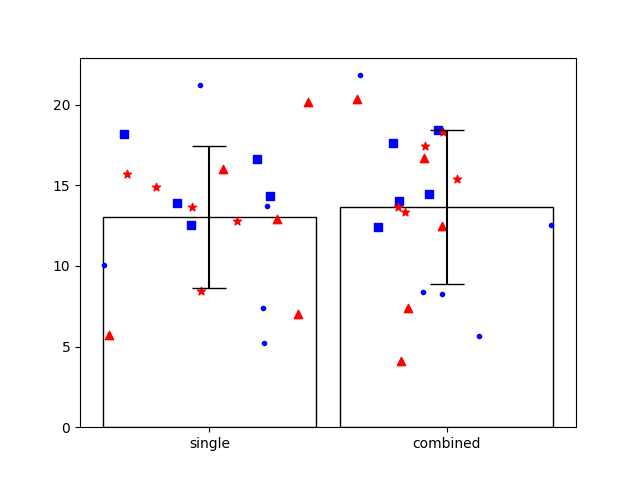
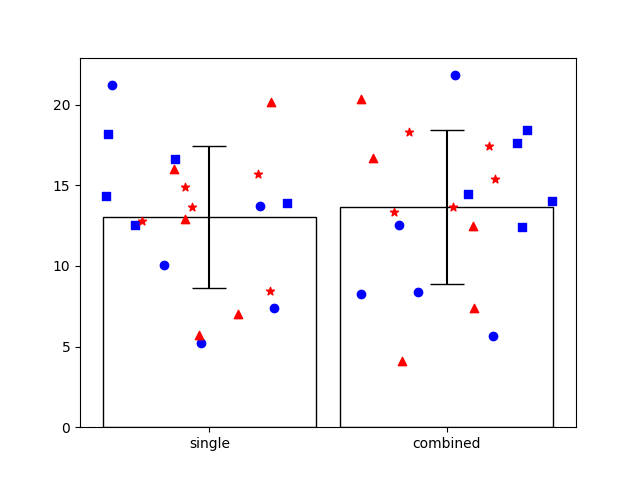
DLC update

diff --git a/DeepLabCut/DLC_jump_analysis/all_trackers/jump_analysis.py b/DeepLabCut/DLC_jump_analysis/all_trackers/jump_analysis.py
@@ -34,11 +34,17 @@ def main(full_path, relative_path, fname1, fname2):
         dataframes_list.append(nose_values1)
 
     combined_values = dataframes_list[0]
+    print("combined_values:\n", combined_values)
     Ms21_values = dataframes_list[1]
+    print("Ms21_values:\n", Ms21_values)
     Ms22_values = dataframes_list[2]
+    print("Ms22_values:\n", Ms22_values)
     RC1_values = dataframes_list[3]
+    print("RC1_values:\n", RC1_values)
     Rear5_values = dataframes_list[4]
+    print("Rear5_values:\n", Rear5_values)
     single_values = dataframes_list[5]
+    print("single_values:\n", single_values)
 
     #Order of single trackers: Ms21, Ms22, RC1, Rear5
     #Naming convention: Ms21 = Rat1, Ms22 = Rat2, RC1 = Rat3, Rear5 = Rat4
@@ -85,14 +91,14 @@ def main(full_path, relative_path, fname1, fname2):
     # exact_values=[np.mean(yi) for yi in y3]
     # print(exact_values)
 
-    test_a = y1[0] 
-    test_var = np.random.random(test_a[0:5].size)
-    print(test_var)
+    # test_a = y1[0] 
+    # test_var = np.random.random(test_a[0:5].size)
+    # print(test_var)
 
     for i in range(len(x1)):
         #distribute scatter randomly across whole width of bar
         a = y1[i]
-        plt.scatter(x1[i] + np.random.random(a[0:5].size) * w - w / 2, a[0:5], color=colors2[1], marker='.') #circle marker = Ms21
+        plt.scatter(x1[i] + np.random.random(a[0:5].size) * w - w / 2, a[0:5], color=colors2[1], marker='o') #circle marker = Ms21
         plt.scatter(x1[i] + np.random.random(a[5:10].size) * w - w / 2, a[5:10], color=colors2[1], marker = "s") #square marker = Ms22
         plt.scatter(x1[i] + np.random.random(a[10:15].size) * w - w / 2, a[10:15], color=colors2[0], marker = "*") #star marker = RC1
         plt.scatter(x1[i] + np.random.random(a[15:20].size) * w - w / 2, a[15:20], color=colors2[0], marker = "^") #triangle marker = Rear5
@@ -131,20 +137,38 @@ def main(full_path, relative_path, fname1, fname2):
     #star marker = RC1
     #triangle marker = Rear5
 
-    # for i in range(len(x2)):
-    #     b = y2[0]
-    #     c = y2[1]
-    #     d = y2[2]
-    #     e = y2[3]
-    #     #Ms21 Tracker:
-    #     plt.scatter(x2[i] + np.random.random(b[0:5].size) * w - w / 2, b[0:5], color=colors2[1], marker='s') #square marker = Ms22
-    #     plt.scatter(x2[i] + np.random.random(b[5:10].size) * w - w / 2, b[5:10], color=colors2[0], marker='*') #circle marker = Ms21
-    #     plt.scatter(x2[i] + np.random.random(b[5:10].size) * w - w / 2, b[5:10], color=colors2[0], marker='*') #circle marker = Ms21
 
-    #     #Ms22 Tracker:
-    #     plt.scatter(x2[i] + np.random.random(c[5:10].size) * w - w / 2, c[5:10], color=colors2[0], marker = "s") #square marker = Ms22
-    #     plt.scatter(x2[i] + np.random.random(d[10:15].size) * w - w / 2, d[10:15], color=colors2[0], marker = "*") #star marker = RC1
-    #     plt.scatter(x2[i] + np.random.random(e[5:10].size) * w - w / 2, e[10:15], color=colors2[0], marker = "^") #triangle marker = Rear5
+    # Ms21 = y2[0]
+    # Ms22 = y2[1]
+    # RC1 = y2[2]
+    # Rear5 = y2[3]
+    # arr_temp = [Ms21, Ms22, RC1, Rear5]
+
+    #for i in range(len(x2)):
+    Ms21 = y2[0]
+    Ms22 = y2[1]
+    RC1 = y2[2]
+    Rear5 = y2[3]
+    #for i in range(len(arr_temp)):
+    #Ms21 Tracker:
+    plt.scatter(x2[0] + np.random.random(Ms21[0:5].size) * w - w / 2, Ms21[0:5], color=colors2[1], marker='s') #square marker = Ms22
+    plt.scatter(x2[0] + np.random.random(Ms21[5:10].size) * w - w / 2, Ms21[5:10], color=colors2[0], marker='*') #star marker = RC1
+    plt.scatter(x2[0] + np.random.random(Ms21[10:15].size) * w - w / 2, Ms21[10:15], color=colors2[0], marker='^') #triangle marker = Rear5
+
+    #Ms22 Tracker:
+    plt.scatter(x2[1] + np.random.random(Ms22[0:5].size) * w - w / 2, Ms22[0:5], color=colors2[1], marker = "o") #circle marker = Ms21
+    plt.scatter(x2[1] + np.random.random(Ms22[5:10].size) * w - w / 2, Ms22[5:10], color=colors2[0], marker = "*") #star marker = RC1
+    plt.scatter(x2[1] + np.random.random(Ms22[10:15].size) * w - w / 2, Ms22[10:15], color=colors2[0], marker='^') #triangle marker = Rear5
+
+    #RC1 Tracker:
+    plt.scatter(x2[2] + np.random.random(RC1[0:5].size) * w - w / 2, RC1[0:5], color=colors2[1], marker = "o") #circle marker = Ms21
+    plt.scatter(x2[2] + np.random.random(RC1[5:10].size) * w - w / 2, RC1[5:10], color=colors2[1], marker = "s") #square marker = Ms22
+    plt.scatter(x2[2] + np.random.random(RC1[10:15].size) * w - w / 2, RC1[10:15], color=colors2[0], marker='^') #triangle marker = Rear5      
+
+    #Rear5 Tracker:
+    plt.scatter(x2[3] + np.random.random(Rear5[0:5].size) * w - w / 2, Rear5[0:5], color=colors2[1], marker = "o") #circle marker = Ms21
+    plt.scatter(x2[3] + np.random.random(Rear5[5:10].size) * w - w / 2, Rear5[5:10], color=colors2[1], marker = "s") #square marker = Ms22
+    plt.scatter(x2[3] + np.random.random(Rear5[10:15].size) * w - w / 2, Rear5[10:15], color=colors2[0], marker='*') #star marker = RC1
 
   
     plt.savefig(fname2, dpi=100)
